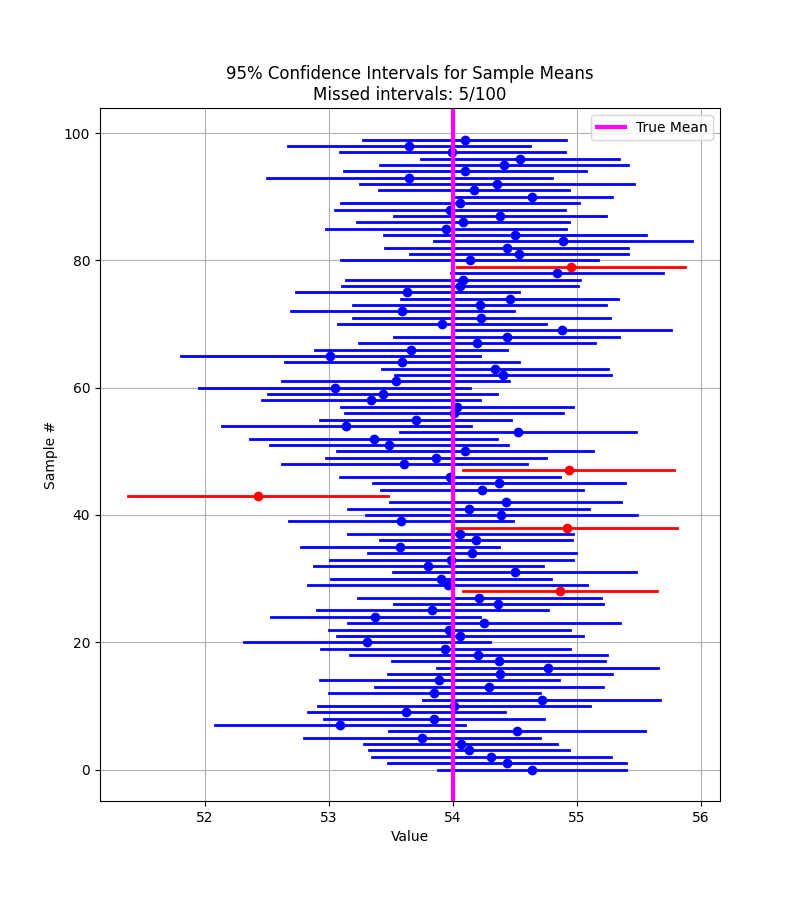
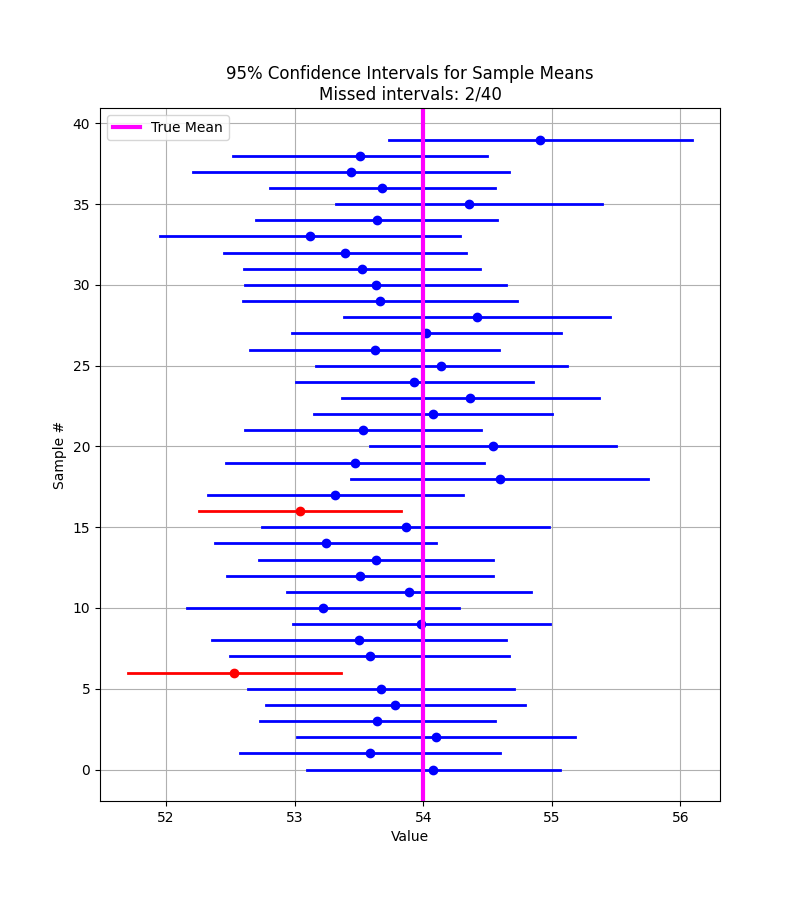
q2 updated

diff --git a/assm6_q2_student.py b/assm6_q2_student.py
@@ -2,7 +2,7 @@ import numpy as np
 import matplotlib.pyplot as plt
 from scipy.stats import norm
 
-def confidence_interval(N_samples=100, sample_size=40, true_mean=54, true_std=3, confidence=0.95):
+def confidence_interval(N_samples=40, sample_size=16, true_mean=54, true_std=3, confidence=0.95):
     """
     Demonstrates 95% confidence intervals for the mean.
     Parameters:
@@ -46,6 +46,7 @@ def confidence_interval(N_samples=100, sample_size=40, true_mean=54, true_std=3,
         if true_mean < lower or true_mean > upper:
             misses += 1
         # this code block ends here
+    miss_percentage = (misses / N_samples) * 100
     
     # Plot the CIs
     plt.figure(figsize=(8, 9))
@@ -67,12 +68,11 @@ def confidence_interval(N_samples=100, sample_size=40, true_mean=54, true_std=3,
 
     
     # WRITE_YOUR_CODE HERE TO PRINT THE NUMBER OF MISSES AND THE PERCENTAGE
-    miss_percentage = (misses / N_samples) * 100
     print(f"Out of {N_samples} intervals, {misses} did NOT contain the true mean.")
     print(f"This is roughly {miss_percentage:.1f}%, close to the expected 5% for a 95% CI.")
     # this code block ends here
 
-    plt.show()
+    # plt.show()
 
 # ================================
 # Run main if this script is executed
